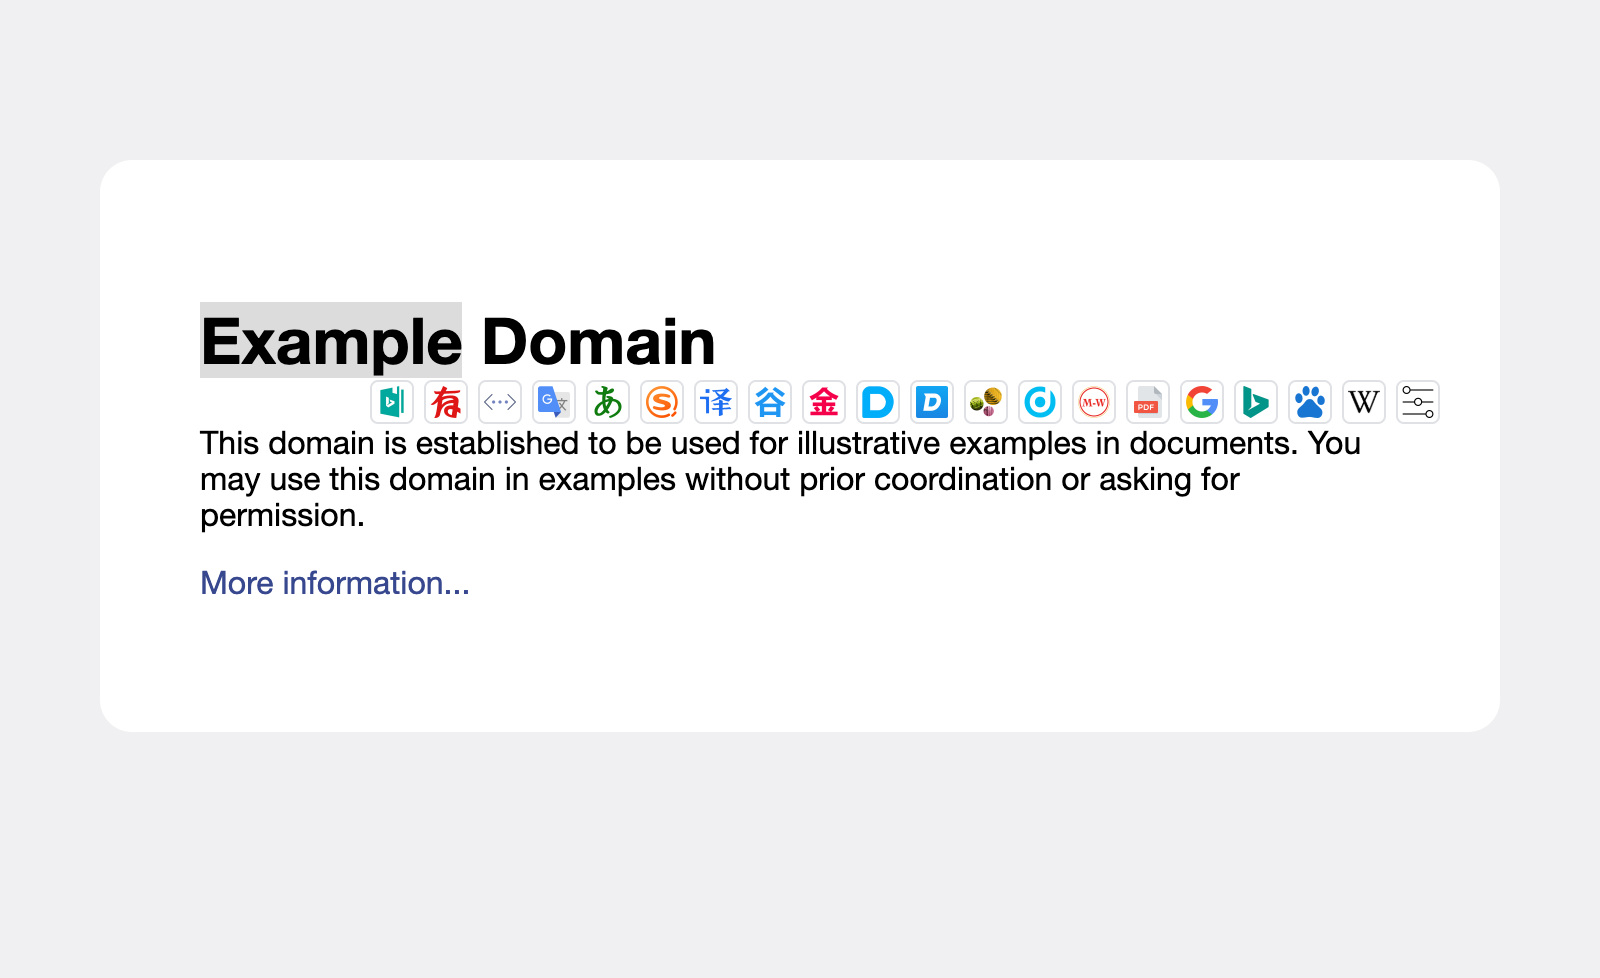
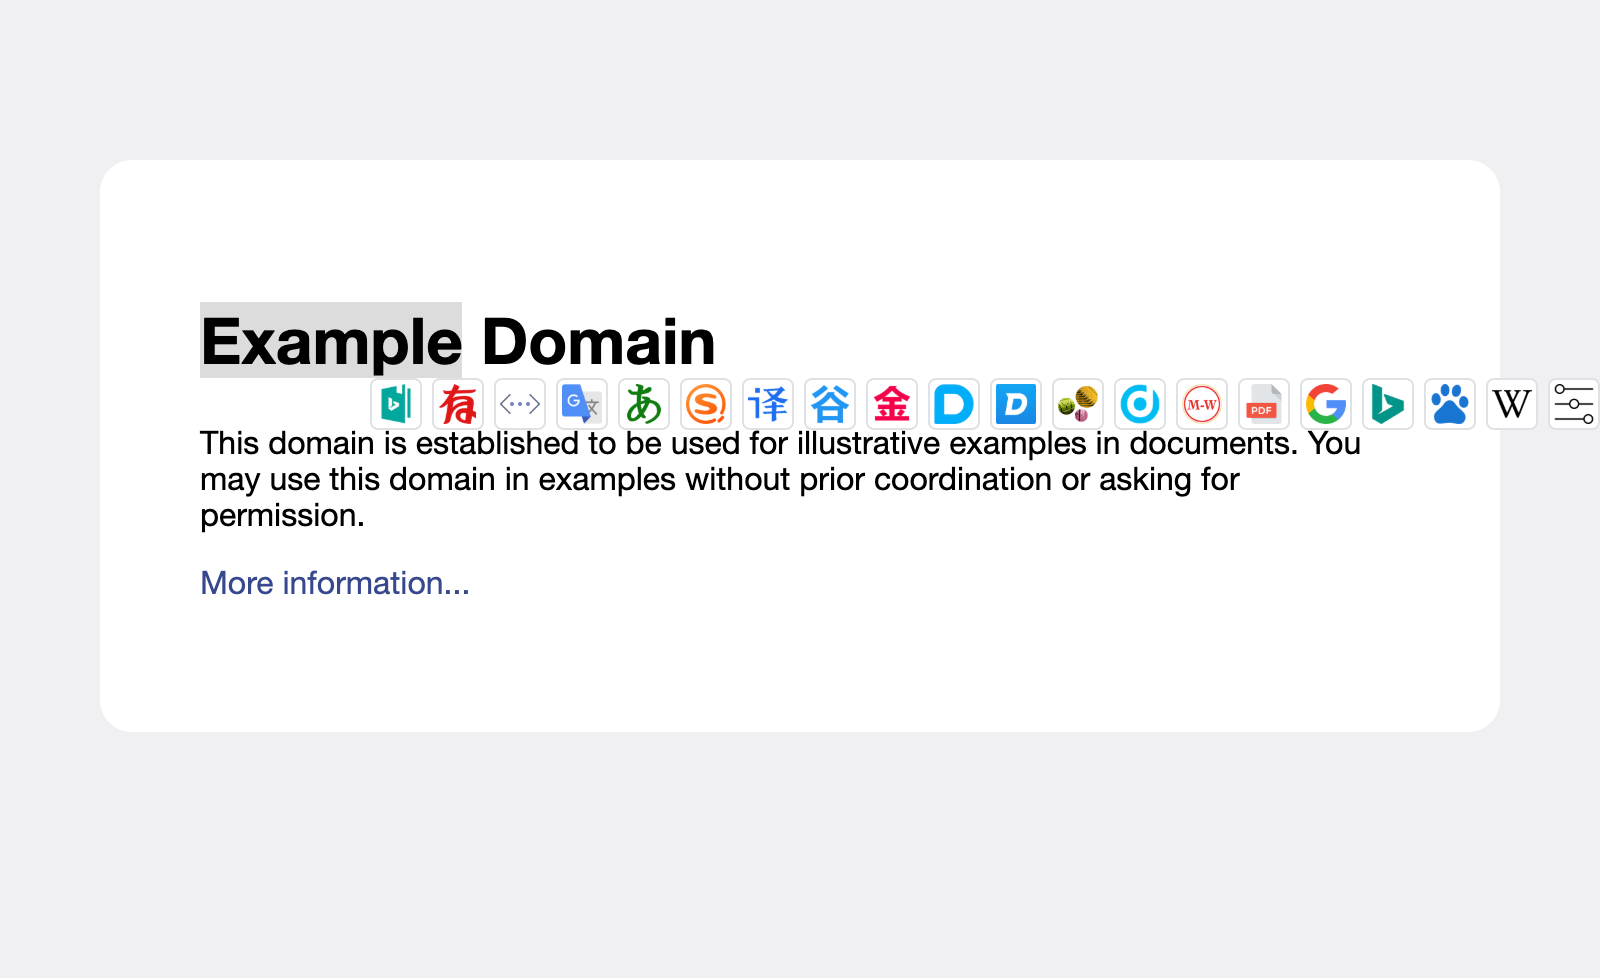
支持Firefox for Android

Changed region(s): [[0.2188, 0.3681, 1.0, 0.4601]]

diff --git a/translate/translate-dictionary.js b/translate/translate-dictionary.js
@@ -1,7 +1,7 @@
 // ==UserScript==
 // @name         划词翻译：多词典查询
 // @namespace    http://tampermonkey.net/
-// @version      6.2
+// @version      6.3
 // @description  划词翻译调用“有道词典（有道翻译）、金山词霸、Bing 词典（必应词典）、剑桥高阶、沪江小D、谷歌翻译”
 // @author       https://github.com/barrer
 // @match        http://*/*
@@ -24,13 +24,14 @@
     // Your code here...
     /**样式*/
     var style = document.createElement('style');
-    // <--- 可以自定义的变量
+    // >>>>> 可以自定义的变量
     var fontSize = 14; // 字体大小
     var iconWidth = 300; // 整个面板宽度
     var iconHeight = 400; // 整个面板高度
-    // 可以自定义的变量 ---> （自定义变量修改后把 “@version” 版本号改为 “10000” 防止更新后消失）
+    // 可以自定义的变量 <<<<< （自定义变量修改后把 “@version” 版本号改为 “10000” 防止更新后消失）
     var trContentWidth = iconWidth - 16; // 整个面板宽度 - 边距间隔 = 翻译正文宽度
-    var trContentHeight = iconHeight - 31; // 整个面板高度 - 边距间隔 = 翻译正文高度
+    var trContentHeight = iconHeight - 35; // 整个面板高度 - 边距间隔 = 翻译正文高度
+    var zIndex = '2147483647'; // 渲染图层
     style.textContent = `
     /*组件样式*/
     :host{all:unset!important}
@@ -39,18 +40,18 @@
     a{color:#00c;text-decoration:none;cursor:pointer}
     a:hover{text-decoration:none}
     a:active{text-decoration:underline}
-    img{cursor:pointer;display:inline-block;width:16px;height:16px;border:1px solid #dfe1e5;border-radius:4px;background-color:rgba(255,255,255,1);padding:2px;margin:0;margin-right:5px;box-sizing:content-box;vertical-align:middle}
+    img{cursor:pointer;display:inline-block;width:20px;height:20px;border:1px solid #dfe1e5;border-radius:4px;background-color:rgba(255,255,255,1);padding:2px;margin:0;margin-right:5px;box-sizing:content-box;vertical-align:middle}
     img:last-of-type{margin-right:auto}
     img:hover{border:1px solid #f90}
     img[activate]{border:1px solid #f90}
     img[activate]:hover{border:1px solid #f90}
     table{font-size:inherit;color:inherit}
-    tr-icon{display:none;position:absolute;padding:0;margin:0;cursor:move;box-sizing:content-box;font-size:${fontSize}px;text-align:left;border:0;border-radius:4px;color:black;z-index:2147483647;background:transparent}
+    tr-icon{display:none;position:absolute;padding:0;margin:0;cursor:move;box-sizing:content-box;font-size:${fontSize}px;text-align:left;border:0;border-radius:4px;color:black;z-index:${zIndex};background:transparent}
     tr-icon[activate]{background:#fff;-webkit-box-shadow:0 3px 8px 0 rgba(0,0,0,0.2),0 0 0 0 rgba(0,0,0,0.08);box-shadow:0 3px 8px 0 rgba(0,0,0,0.2),0 0 0 0 rgba(0,0,0,0.08)}
     tr-audio{display:block;margin-bottom:5px}
     tr-audio a{margin-right:1em;font-size:80%}
     tr-audio a:last-of-type{margin-right:auto}
-    tr-content{display:block;width:${trContentWidth}px;height:${trContentHeight}px;overflow-x:hidden;overflow-y:scroll;background:white;padding:2px 8px;margin-top:5px;box-sizing:content-box;font-family:"Helvetica Neue","Helvetica","Arial","sans-serif";font-size:${fontSize}px;font-weight:normal;line-height:normal;-webkit-font-smoothing:auto;font-smoothing:auto;text-rendering:auto}
+    tr-content{display:none;width:${trContentWidth}px;height:${trContentHeight}px;overflow-x:hidden;overflow-y:scroll;background:white;padding:2px 8px;margin-top:5px;box-sizing:content-box;font-family:"Helvetica Neue","Helvetica","Arial","sans-serif";font-size:${fontSize}px;font-weight:normal;line-height:normal;-webkit-font-smoothing:auto;font-smoothing:auto;text-rendering:auto}
     tr-engine~tr-engine{margin-top:1em}
     tr-engine .title{color:#00c;display:inline-block;font-weight:bold}
     tr-engine .title:hover{text-decoration:none}
@@ -131,7 +132,9 @@
         selected, // 当前选中文本
         engineId, // 当前翻译引擎
         engineTriggerTime, // 引擎触发时间（milliseconds）
-        idsType; // 当前翻译面板内容列表数组
+        idsType, // 当前翻译面板内容列表数组
+        pageX, // 图标显示的 X 坐标
+        pageY; // 图标显示的 Y 坐标
     // 初始化内容面板
     content.appendChild(contentList);
     // 发音缓存
@@ -257,7 +260,8 @@
                     showContent();
                 }, {
                     headers: {
-                        'Cookie': 'HJ_SID=' + uuid() + '; HJ_SSID_3=' + uuid() + '; HJ_CST=1; HJ_CSST_3=1; HJ_UID=' + uuid()
+                        'Cookie': 'HJ_SID=' + uuid() + '; HJ_SSID_3=' + uuid() + '; HJ_CST=1; HJ_CSST_3=1; HJ_UID=' + uuid(),
+                        'User-Agent': 'Mozilla/5.0 (Macintosh; Intel Mac OS X 10_14_1) AppleWebKit/537.36 (KHTML, like Gecko) Chrome/75.0.3770.142 Safari/537.36'
                     }
                 });
             };
@@ -376,37 +380,10 @@
         }
     });
     // 鼠标事件：防止选中的文本消失；显示、隐藏翻译图标
-    document.addEventListener('mouseup', function (e) {
-        log('mouseup event:', e);
-        if (e.target == icon || (e.target.parentNode && e.target.parentNode == icon)) { // 点击了翻译图标
-            e.preventDefault();
-            return;
-        }
-        selected = window.getSelection().toString().trim(); // 当前选中文本
-        log('click text:' + selected);
-        if (selected && icon.style.display == 'none') { // 显示翻译图标
-            log('show icon');
-            log(selected + ' | ' + e.pageX + ' | ' + e.pageY);
-            icon.style.top = e.pageY + 8 + 'px';
-            icon.style.left = e.pageX + 4 + 'px';
-            icon.style.display = 'block';
-            // 兼容部分 Content Security Policy
-            icon.style.position = 'absolute';
-            icon.style.zIndex = '2147483647';
-        } else if (!selected) { // 隐藏翻译图标
-            log('hide icon:mouseup');
-            hideIcon();
-        }
-    });
-    // 选中变化事件：当点击已经选中的文本的时候，隐藏翻译图标（此时浏览器动作是：选中的文本已经取消选中了）
-    document.addEventListener('selectionchange', function (e) {
-        log('selectionchange event:', e);
-        log('selectionchange:' + window.getSelection().toString());
-        if (!window.getSelection().toString().trim()) {
-            log('hide icon:selectionchange');
-            hideIcon();
-        }
-    });
+    document.addEventListener('mouseup', showIcon);
+    // 选中变化事件
+    document.addEventListener('selectionchange', showIcon);
+    document.addEventListener('touchend', showIcon);
     // 内容面板滚动事件
     content.addEventListener('scroll', function (e) {
         if (content.scrollHeight - content.scrollTop === content.clientHeight) {
@@ -771,6 +748,47 @@
         engineActivateHide();
         icon.querySelector('img[icon-id="' + engineId + '"]').setAttribute('activate', 'activate');
     }
+    /**显示 icon*/
+    function showIcon(e) {
+        log('showIcon event:', e);
+        var offsetX = 4; // 横坐标翻译图标偏移
+        var offsetY = 8; // 纵坐标翻译图标偏移
+        // 更新翻译图标 X、Y 坐标
+        if (e.pageX && e.pageY) { // 鼠标
+            log('mouse pageX/Y');
+            pageX = e.pageX;
+            pageY = e.pageY;
+        }
+        if (e.changedTouches) { // 触屏
+            if (e.changedTouches.length > 0) { // 多点触控选取第 1 个
+                log('touch pageX/Y');
+                pageX = e.changedTouches[0].pageX;
+                pageY = e.changedTouches[0].pageY;
+                // 触屏修改翻译图标偏移（Android、iOS 选中后的动作菜单一般在当前文字顶部，翻译图标则放到底部）
+                offsetX = -26; // 单个翻译图标块宽度
+                offsetY = 16 * 3; // 一般字体高度的 3 倍，距离系统自带动作菜单、选择光标太近会导致无法点按
+            }
+        }
+        log('selected:' + selected + ', pageX:' + pageX + ', pageY:' + pageY)
+        if (e.target == icon || (e.target.parentNode && e.target.parentNode == icon)) { // 点击了翻译图标
+            e.preventDefault();
+            return;
+        }
+        selected = window.getSelection().toString().trim(); // 当前选中文本
+        log('selected:' + selected + ', icon display:' + icon.style.display);
+        if (selected && icon.style.display != 'block' && pageX && pageY) { // 显示翻译图标
+            log('show icon');
+            icon.style.top = pageY + offsetY + 'px';
+            icon.style.left = pageX + offsetX + 'px';
+            icon.style.display = 'block';
+            // 兼容部分 Content Security Policy
+            icon.style.position = 'absolute';
+            icon.style.zIndex = zIndex;
+        } else if (!selected) { // 隐藏翻译图标
+            log('hide icon');
+            hideIcon();
+        }
+    }
     /**隐藏 icon*/
     function hideIcon() {
         icon.style.display = 'none';
@@ -778,6 +796,8 @@
         content.style.display = 'none';
         engineId = '';
         engineTriggerTime = 0;
+        pageX = 0;
+        pageY = 0;
         engineActivateHide();
         audioCache = {};
         engineResult = {};

diff --git a/translate/translate.js b/translate/translate.js
@@ -1,7 +1,7 @@
 // ==UserScript==
 // @name         Translate
 // @namespace    http://tampermonkey.net/
-// @version      6.3
+// @version      6.4
 // @description  划词翻译调用“金山词霸、有道词典（有道翻译）、Google Translate（谷歌翻译）、沪江小D、搜狗翻译、必应词典（必应翻译）、Microsoft Translator（必应在线翻译）、海词词典、百度翻译、Oxford Learner's Dictionaries、Oxford Dictionaries、Merriam-Webster、PDF 划词翻译、Google Search、Bing Search（必应搜索）、百度搜索、Wikipedia Search（维基百科搜索）”网页翻译
 // @author       https://github.com/barrer
 // @match        http://*/*
@@ -19,15 +19,16 @@
     // Your code here...
     /**样式*/
     var style = document.createElement('style');
+    var zIndex = '2147473647'; // 渲染图层
     style.textContent = `
     :host{all:unset!important}
     :host{all:initial!important}
     *{word-wrap:break-word!important}
-    img{cursor:pointer;display:inline-block;width:16px;height:16px;border:1px solid #dfe1e5;border-radius:4px;background-color:rgba(255,255,255,1);padding:2px;margin:0;margin-right:5px;box-sizing:content-box;vertical-align:middle}
+    img{cursor:pointer;display:inline-block;width:20px;height:20px;border:1px solid #dfe1e5;border-radius:4px;background-color:rgba(255,255,255,1);padding:2px;margin:0;margin-right:5px;box-sizing:content-box;vertical-align:middle}
     img:last-of-type{margin-right:auto}
     img:hover{border:1px solid #f90}
     img[is-more]{display:none}
-    tr-icon{display:none;position:absolute;padding:0;margin:0;cursor:move;background:transparent;box-sizing:content-box;font-size:13px;text-align:left;border:0;color:black;z-index:2147473647}
+    tr-icon{display:none;position:absolute;padding:0;margin:0;cursor:move;background:transparent;box-sizing:content-box;font-size:13px;text-align:left;border:0;color:black;z-index:${zIndex}}
     `;
     // iframe 工具库
     var iframe = document.createElement('iframe');
@@ -336,8 +337,10 @@
         });
     });
     log('hostCustomMap:', hostCustomMap);
-    // 翻译图标
-    var icon = document.createElement('tr-icon');
+    var icon = document.createElement('tr-icon'), // 翻译图标
+        selected, // 当前选中文本
+        pageX, // 图标显示的 X 坐标
+        pageY; // 图标显示的 Y 坐标
     // 绑定图标拖动事件
     var iconDrag = new Drag(icon);
     // 翻译引擎添加到图标
@@ -409,36 +412,11 @@
             e.preventDefault();
         }
     });
-    // 选中变化事件：当点击已经选中的文本的时候，隐藏翻译图标（此时浏览器动作是：选中的文本已经取消选中了）
-    document.addEventListener("selectionchange", function () {
-        log('selectionchange:' + window.getSelection().toString());
-        if (!window.getSelection().toString().trim()) {
-            hideIcon();
-        }
-    });
     // 鼠标事件：防止选中的文本消失；显示、隐藏翻译图标
-    document.addEventListener('mouseup', function (e) {
-        if (e.target == icon || (e.target.parentNode && e.target.parentNode == icon)) { // 点击了翻译图标
-            e.preventDefault();
-            return;
-        }
-        var text = window.getSelection().toString().trim();
-        log('click text:' + text);
-        log(e);
-        if (text && icon.style.display == 'none') {
-            log('show icon');
-            log(text + ' | ' + e.pageX + ' | ' + e.pageY);
-            icon.style.top = e.pageY + 8 + 'px';
-            icon.style.left = e.pageX + 4 + 'px';
-            icon.style.display = 'block';
-            // 兼容部分 Content Security Policy
-            icon.style.position = 'absolute';
-            icon.style.zIndex = '2147473647';
-        } else if (!text) {
-            log('hide icon');
-            hideIcon();
-        }
-    });
+    document.addEventListener('mouseup', showIcon);
+    // 选中变化事件
+    document.addEventListener('selectionchange', showIcon);
+    document.addEventListener('touchend', showIcon);
     /**日志输出*/
     function log() {
         var debug = false;
@@ -584,9 +562,52 @@
             iconDrag.unsetMouseMove();
         }
     }
+    /**显示 icon*/
+    function showIcon(e) {
+        log('showIcon event:', e);
+        var offsetX = 4; // 横坐标翻译图标偏移
+        var offsetY = 8; // 纵坐标翻译图标偏移
+        // 更新翻译图标 X、Y 坐标
+        if (e.pageX && e.pageY) { // 鼠标
+            log('mouse pageX/Y');
+            pageX = e.pageX;
+            pageY = e.pageY;
+        }
+        if (e.changedTouches) { // 触屏
+            if (e.changedTouches.length > 0) { // 多点触控选取第 1 个
+                log('touch pageX/Y');
+                pageX = e.changedTouches[0].pageX;
+                pageY = e.changedTouches[0].pageY;
+                // 触屏修改翻译图标偏移（Android、iOS 选中后的动作菜单一般在当前文字顶部，翻译图标则放到底部）
+                offsetX = -26; // 单个翻译图标块宽度
+                offsetY = 16 * 3; // 一般字体高度的 3 倍，距离系统自带动作菜单、选择光标太近会导致无法点按
+            }
+        }
+        log('selected:' + selected + ', pageX:' + pageX + ', pageY:' + pageY)
+        if (e.target == icon || (e.target.parentNode && e.target.parentNode == icon)) { // 点击了翻译图标
+            e.preventDefault();
+            return;
+        }
+        selected = window.getSelection().toString().trim(); // 当前选中文本
+        log('selected:' + selected + ', icon display:' + icon.style.display);
+        if (selected && icon.style.display != 'block' && pageX && pageY) { // 显示翻译图标
+            log('show icon');
+            icon.style.top = pageY + offsetY + 'px';
+            icon.style.left = pageX + offsetX + 'px';
+            icon.style.display = 'block';
+            // 兼容部分 Content Security Policy
+            icon.style.position = 'absolute';
+            icon.style.zIndex = zIndex;
+        } else if (!selected) { // 隐藏翻译图标
+            log('hide icon');
+            hideIcon();
+        }
+    }
     /**隐藏 icon*/
     function hideIcon() {
         icon.style.display = 'none';
+        pageX = 0;
+        pageY = 0;
         icon.querySelectorAll('img[is-more]').forEach(function (ele) {
             ele.style.display = 'none';
         });

diff --git a/README.md b/README.md
@@ -6,10 +6,12 @@
 
 ![translate.png](translate/translate.png)
 
+![translate.png](translate/translate-android.png)
+
 特色：  
 * 划词翻译调用“金山词霸、有道词典（有道翻译）、Google Translate（谷歌翻译）、沪江小D、搜狗翻译、必应词典（必应翻译）、Microsoft Translator（必应在线翻译）、海词词典、百度翻译、Oxford Learner's Dictionaries、Oxford Dictionaries、Merriam-Webster、PDF 划词翻译、Google Search、Bing Search（必应搜索）、百度搜索、Wikipedia Search（维基百科搜索）”网页翻译
+* 支持浏览器：Google Chrome、Firefox、Safari、Firefox for Android（无拖动）
 * 支持顺序自定义
-* 支持隐藏图标
 * 支持显示更多图标
 * 支持图标拖动
 
@@ -17,10 +19,12 @@
 
 ![translate-dictionary.png](translate/translate-dictionary.png)
 
+![translate-dictionary.png](translate/translate-dictionary-android.png)
+
 特色：  
 * 划词翻译调用“有道词典（有道翻译）、金山词霸、Bing 词典（必应词典）、剑桥高阶、沪江小D、谷歌翻译”
+* 支持浏览器：Google Chrome、Firefox、Safari（无发音）、Firefox for Android（无拖动）
 * 支持发音
-* 支持显示当前翻译引擎
 * 支持面板拖动
 * 支持面板自动调整位置
 
